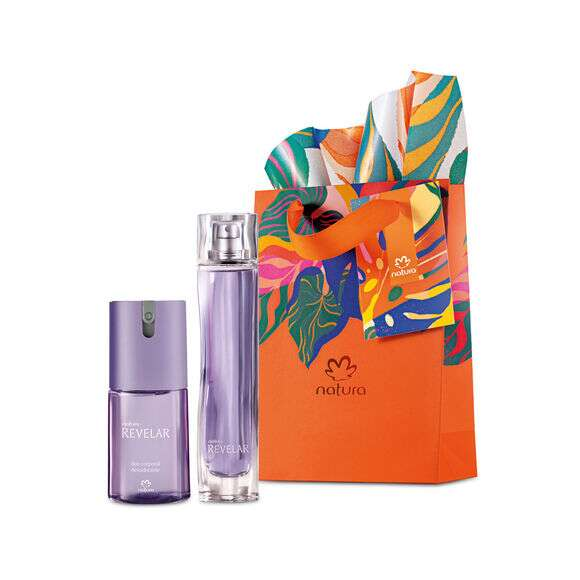
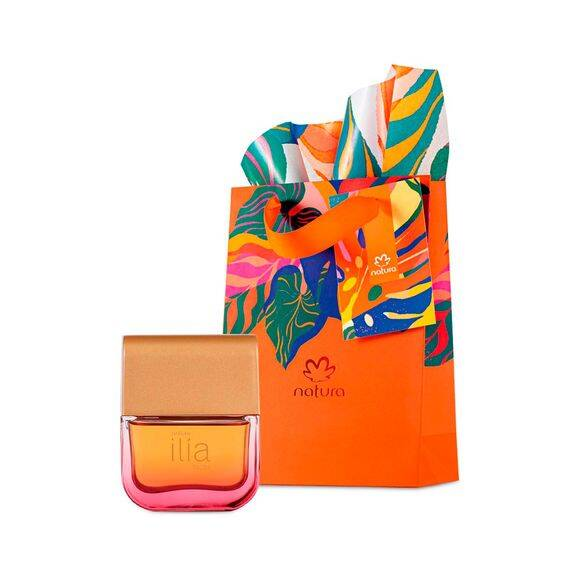
added contact info

diff --git a/contacto.html b/contacto.html
@@ -1,0 +1,76 @@
+<!DOCTYPE html>
+<html lang="en">
+  <head>
+    <meta charset="UTF-8" />
+    <meta name="viewport" content="width=device-width, initial-scale=1.0" />
+    <title>Landing Page</title>
+    <script
+      src="https://kit.fontawesome.com/ada122f3d7.js"
+      crossorigin="anonymous"
+    ></script>
+    <link
+      href="https://fonts.googleapis.com/css?family=Poppins:400,500&display=swap"
+      rel="stylesheet"
+    />
+    <link rel="stylesheet" href="./contacto.css" />
+    <link rel="stylesheet" href="./style.css" />
+  </head>
+  <body class="contact-body">
+    <header>
+      <div class="logo-container">
+        <img src="./img/logo.svg" alt="logo" />
+        <h4 class="logo">Ivonne Vazquez</h4>
+      </div>
+      <nav>
+        <ul class="nav-links">
+          <li><a class="nav-link" href="">Acerca de Mi</a></li>
+          <li><a class="nav-link" href="">Especifiaciones</a></li>
+          <li><a class="nav-link" href="">Productos</a></li>
+          <li><a class="nav-link" href="contacto.html">Contacto</a></li>
+        </ul>
+      </nav>
+    </header>
+
+    <main>
+      <seccion class="contact">
+        <div class="contact-info">
+          <div class="card">
+            <i class="icon fas fa-envelope"></i>
+            <div class="card-content">
+              <h3>Email</h3>
+              <span>ivonnenatura2018@gmail.com</span>
+            </div>
+          </div>
+
+          <div class="card">
+            <i class="icon fa fa-whatsapp"></i>
+            <div class="card-content">
+              <h3>Whatsapp</h3>
+              <span>+(52) 722-368-1667</span>
+            </div>
+          </div>
+
+          <!-- <div class="card">
+            <i class="icon fa fa-facebook-square"></i>
+            <div class="card-content">
+              <h3>Facebook</h3>
+              <span>https://www.facebook.com/ivonnepatricia.vazquezmolina</span>
+            </div>
+          </div> -->
+
+          <div class="card">
+            <i class="icon fas fa-map-marker-alt"></i>
+            <div class="card-content">
+              <h3>Ubicaci&oacute;n</h3>
+              <span>Santa Elena</span>
+            </div>
+          </div>
+        </div>
+      </seccion>
+
+      <img class="big-circle" src="./img/big-eclipse.svg" alt="" />
+      <img class="middle-circle" src="./img/mid-eclipse.svg" alt="" />
+      <img class="small-circle" src="./img/small-eclipse.svg" alt="" />
+    </main>
+  </body>
+</html>

diff --git a/contacto.css b/contacto.css
@@ -1,0 +1,75 @@
+.contact-info {
+  width: 100%;
+  display: flex;
+  justify-content: center;
+  flex-wrap: wrap;
+  position: absolute;
+  top: 50%;
+  -ms-transform: translateY(-50%);
+  transform: translateY(-50%);
+}
+
+.card {
+  position: relative;
+  flex: 1;
+  max-width: 300px;
+  height: 140px;
+  background-color: #444;
+  opacity: 0.7;
+  margin: 20px;
+  cursor: pointer;
+  display: flex;
+  align-items: center;
+  justify-content: center;
+}
+
+.icon {
+  font-size: 32px;
+  color: #ea8685;
+  transition: 0.3s linear;
+}
+
+.card:hover .icon {
+  transform: scale(4);
+  opacity: 0;
+}
+
+.card-content h3,
+.card-content span {
+  position: absolute;
+  left: 50%;
+  transform: translateX(-50%);
+  font-size: 16px;
+  opacity: 0;
+}
+
+.card-content h3 {
+  top: 20px;
+  text-transform: uppercase;
+  color: #ea8685;
+}
+
+.card-content span {
+  bottom: 20px;
+  color: #fff;
+  font-weight: 500;
+}
+
+.card:hover h3 {
+  opacity: 1;
+  top: 46px;
+  transition: 0.3s linear 0.3s;
+}
+
+.card:hover span {
+  opacity: 1;
+  bottom: 46px;
+  transition: 0.3s linear 0.3s;
+}
+
+@media screen and (max-width: 900px) {
+  .card {
+    flex: 100%;
+    max-width: 500px;
+  }
+}

diff --git a/index.html b/index.html
@@ -21,7 +21,7 @@
           <li><a class="nav-link" href="">Acerca de Mi</a></li>
           <li><a class="nav-link" href="">Especifiaciones</a></li>
           <li><a class="nav-link" href="">Productos</a></li>
-          <li><a class="nav-link" href="">Contacto</a></li>
+          <li><a class="nav-link" href="contacto.html">Contacto</a></li>
         </ul>
       </nav>
       <div class="cart">
@@ -35,12 +35,12 @@
           <div class="intro-text">
             <h1>Regalo Especial</h1>
             <p>
-              Revelar Femenino, la mejor fragancia del Mercado.
+              Especialmente diseñada para la mujer Mexicana
             </p>
           </div>
           <div class="cta">
-            <button class="cta-select">Revelar</button>
-            <button class="cta-add">Mas Informes</button>
+            <button class="cta-select">Il&iacute;a</button>
+            <button class="cta-add">M&aacute;s Informes</button>
           </div>
         </div>
         <div class="cover">

diff --git a/style.css b/style.css
@@ -144,6 +144,10 @@ nav {
   right: 20%;
 }
 
+.fa_custom {
+  color: red;
+}
+
 @keyframes drop {
   0% {
     opacity: 0;
